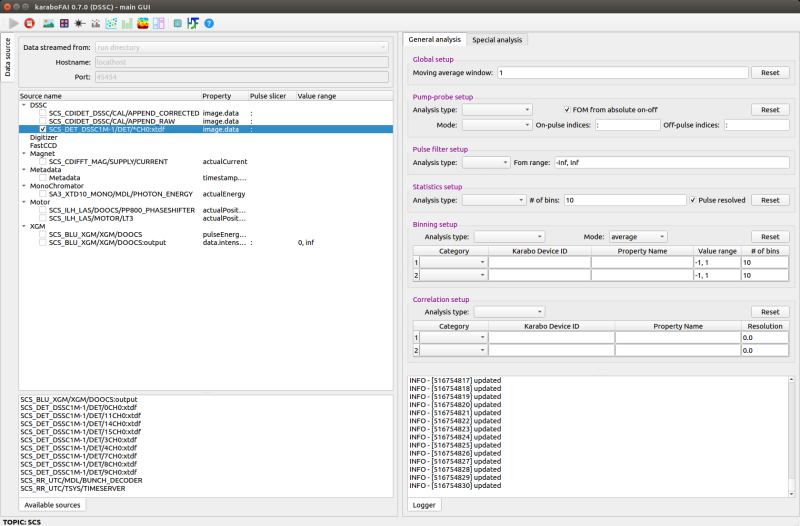
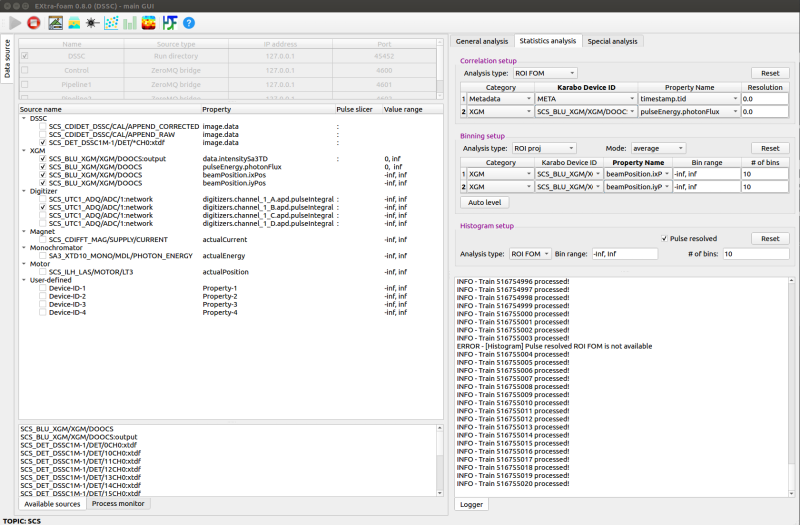
Update documentation

Changed region(s): [[0.0, 0.0, 1.0, 0.9752], [0.9688, 0.9752, 1.0, 1.0]]

diff --git a/docs/main_gui.rst b/docs/main_gui.rst
@@ -10,19 +10,23 @@ by functionality and a log window.
 Data source
 -----------
 
+**EXtra-foam** supports different kind of data flow. Unless you are very familiar with the
+**EXtra-foam** and Karabo, it is recommended to use the scenario 1 depicted in :ref:`data flow`.
+Namely, only one connection should be checked.
+
 +----------------------------+--------------------------------------------------------------------+
 | Input                      | Description                                                        |
 +============================+====================================================================+
-| *Data streamed from*       | Receiving the data from                                            |
+| ``Source type``            | Receiving the data from                                            |
 |                            |                                                                    |
 |                            | - *ZeroMQ bridge*: mainly used for real-time analysis. The data    |
 |                            |   will be sent from a *PipeToZeroMQ* Karabo device;                |
 |                            |                                                                    |
 |                            | - *run directory*: used for replaying the experiment.              |
 +----------------------------+--------------------------------------------------------------------+
-| *Hostname*                 | Hostname of the data source.                                       |
+| ``IP address``             | IP address of the TCP connection.                                  |
 +----------------------------+--------------------------------------------------------------------+
-| *Port*                     | Port number of the data source.                                    |
+| ``Port``                   | Port number of the TCP connection.                                 |
 +----------------------------+--------------------------------------------------------------------+
 
 .. image:: images/data_source_tree.png
@@ -40,11 +44,11 @@ For each data source item, one can also set up the following attribute when appl
 +----------------------------+--------------------------------------------------------------------+
 | Input                      | Description                                                        |
 +============================+====================================================================+
-| *Pulse slicer*             | The input will be used to construct a *slice* object in Python     |
+| ``Pulse slicer``           | The input will be used to construct a *slice* object in Python     |
 |                            | which is used to select the specified pulse pattern in a train     |
 |                            | from a pipeline data.                                              |
 +----------------------------+--------------------------------------------------------------------+
-| *Value range*              | Value range filter of the corresponding source. When it applies to |
+| ``Value range``            | Value range filter of the corresponding source. When it applies to |
 |                            | pipeline data, it will apply data filtering pulse-by-pulse. When   |
 |                            | it applies to control data, it will then apply data filtering      |
 |                            | train-by-train. *Not all pipeline data support it*                 |
@@ -67,20 +71,26 @@ Define analysis parameters used globally.
 +----------------------------+--------------------------------------------------------------------+
 | Input                      | Description                                                        |
 +============================+====================================================================+
-| *POI indices*              | Indices of the pulse of interest (POI) 1 and 2. It is used for     |
+| ``POI indices``            | Indices of the pulse of interest (POI) 1 and 2. It is used for     |
 |                            | visualizing a single image in the *Pulse-of-interest* window. **If |
 |                            | 'Pulse slicer' is used to slice a portion of the pulses in the     |
 |                            | train, this index is indeed the index of the pulse in the sliced   |
 |                            | train**. *Pulse-resolved detector only.*                           |
 +----------------------------+--------------------------------------------------------------------+
-| *Moving average window*    | Moving average window size. If the moving average window size is   |
+| ``Moving average window``  | Moving average window size. If the moving average window size is   |
 |                            | larger than 1, moving average will be applied to all the           |
 |                            | registered analysis types. If the new window size is smaller than  |
 |                            | the old one, the moving average calculation will start from the    |
 |                            | scratch.                                                           |
 +----------------------------+--------------------------------------------------------------------+
-| Reset                      | Reset the moving average counts of all registered analysis types.  |
+| ``Reset``                  | Reset the moving average counts of all registered analysis types.  |
 +----------------------------+--------------------------------------------------------------------+
+
+
+Pump-probe setup
+""""""""""""""""
+
+See :ref:`Pump-probe analysis`
 
 
 Pulse filter setup
@@ -88,12 +98,22 @@ Pulse filter setup
 
 Apply data reduction by setting the lower and upper boundary of the specified FOM. Currently,
 it affects calculating the average of images in a train as well as the averages of images of
-ON-/Off- pulses in a train. It only works for pulse-resolved detectors.
+ON-/Off- pulses in a train
 
 +----------------------------+--------------------------------------------------------------------+
 | Input                      | Description                                                        |
 +============================+====================================================================+
-| *Analysis type*            | See :ref:`Analysis type`.                                          |
+| ``Analysis type``          | See :ref:`Analysis type`.                                          |
 +----------------------------+--------------------------------------------------------------------+
-| *FOM range*                | Number of bins of the histogram.                                   |
+| ``FOM range``              | Number of bins of the histogram.                                   |
 +----------------------------+--------------------------------------------------------------------+
+| ``pulse resolved``         | This checkbox is only enabled for the pulse-resolved detectors.    |
+|                            | When it is checked, the filtering is pulse-wise. Otherwise, the    |
+|                            | filtering is train-wise.                                           |
++----------------------------+--------------------------------------------------------------------+
+
+
+Statistics analysis
+-------------------
+
+See :ref:`statistics analysis`

diff --git a/docs/statistics.rst b/docs/statistics.rst
@@ -65,12 +65,15 @@ themselves to click the reset button.
     1 ms with a predefined bin range. However, the cost could increase to a few tens of ms with
     a dynamic bin range!
 
-.. image:: images/1D_binning_window.png
+.. image:: images/binning_window.png
    :width: 800
 
 
 Histogram
 ---------
+
+.. image:: images/histogram_setup.png
+   :width: 640
 
 Setup the visualization of pulse- / train- resolved statistics analysis.
 
@@ -78,6 +81,10 @@ Setup the visualization of pulse- / train- resolved statistics analysis.
 | Input                      | Description                                                        |
 +============================+====================================================================+
 | ``Analysis type``          | See :ref:`Analysis type`.                                          |
++----------------------------+--------------------------------------------------------------------+
+| ``pulse resolved``         | This checkbox is only enabled for the pulse-resolved detectors.    |
+|                            | When it is checked, the histogram is pulse-wise. Otherwise, the    |
+|                            | histogram is train-wise.                                           |
 +----------------------------+--------------------------------------------------------------------+
 | ``Bin range``              | Lower and upper boundaries of all the bins. In case of *+/- Inf*,  |
 |                            | the boundary will be calculated dynamically.                       |
@@ -87,9 +94,14 @@ Setup the visualization of pulse- / train- resolved statistics analysis.
 | ``Reset``                  | Reset the histogram history.                                       |
 +----------------------------+--------------------------------------------------------------------+
 
+.. image:: images/histogram_window.png
+   :width: 800
 
 Correlation
 -----------
+
+.. image:: images/correlation_setup.png
+   :width: 640
 
 Setup the visualization of correlations of a given FOM with various slow data.
 
@@ -108,3 +120,6 @@ Setup the visualization of correlations of a given FOM with various slow data.
 +----------------------------+--------------------------------------------------------------------+
 | ``Reset``                  | Reset the correlation history.                                     |
 +----------------------------+--------------------------------------------------------------------+
+
+.. image:: images/correlation_window.png
+   :width: 800

diff --git a/docs/analysis_type.rst b/docs/analysis_type.rst
@@ -3,10 +3,25 @@
 Analysis type
 =============
 
-Each analysis type starts from an (ROI) image and will generate a FOM (figure-of-merit) and a VFOM
-(vector figure-of-merit). Take the analysis type *ROI (proj)* for example, it starts from the image
-which is the subtraction of ROI1 and ROI2. The VFOM is the projection of this image in the x or y
-direction, and the FOM the sum of the absolute VFOM.
+Each analysis will generate a FOM (figure-of-merit) and possibly also a VFOM (vector figure-of-merit),
+which are typically used in :ref:`statistics analysis`.
+
+**FOM**
+
+A scalar which is used to characterize the performance of an analysis in a train/pulse.
+For instance:
+
+- (Sum, median, mean) of an ROI;
+- (Absolute) sum of (part of) the difference curve in a pump-probe analysis;
+- Absorption coefficient.
+
+**VFOM**
+
+An array of scalars  which is used to characterize the performance of an analysis in a train/pulse.
+For instance:
+
+- Scattering curve from azimuthal integration;
+- The difference curve in a pump-probe analysis;
 
 .. list-table::
    :header-rows: 1

diff --git a/docs/pump_probe.rst b/docs/pump_probe.rst
@@ -6,6 +6,10 @@ PUMP-PROBE ANALYSIS
 .. _nanmean: https://docs.scipy.org/doc/numpy/reference/generated/numpy.nanmean.html
 
 
+.. image:: images/pump_probe_pattern.png
+   :width: 800
+
+
 In the *pump-probe* analysis, the average (nanmean_) images of the on- and off- pulses are
 calculated by
 
@@ -60,5 +64,5 @@ analysis is given by VFOM (on) - VFOM (off).
 |                              | moving average count.                                              |
 +------------------------------+--------------------------------------------------------------------+
 
-.. image:: images/pump-probe_window.png
+.. image:: images/pump_probe_window.png
    :width: 800

diff --git a/docs/introduction.rst b/docs/introduction.rst
@@ -88,9 +88,17 @@ Galleries
 .. image:: images/ImageTool.png
    :width: 800
 
-.. image:: images/pump-probe_window.png
+.. image:: images/pump_probe_window.png
    :width: 800
 
-.. image:: images/1D_binning_window.png
+.. image:: images/correlation_window.png
    :width: 800
 
+.. image:: images/histogram_window.png
+   :width: 800
+
+.. image:: images/binning_window.png
+   :width: 800
+
+.. image:: images/poi_window.png
+   :width: 800

diff --git a/docs/tutorial_data_flow.rst b/docs/tutorial_data_flow.rst
@@ -1,3 +1,5 @@
+.. _data flow:
+
 DATA FLOW
 =========
 
